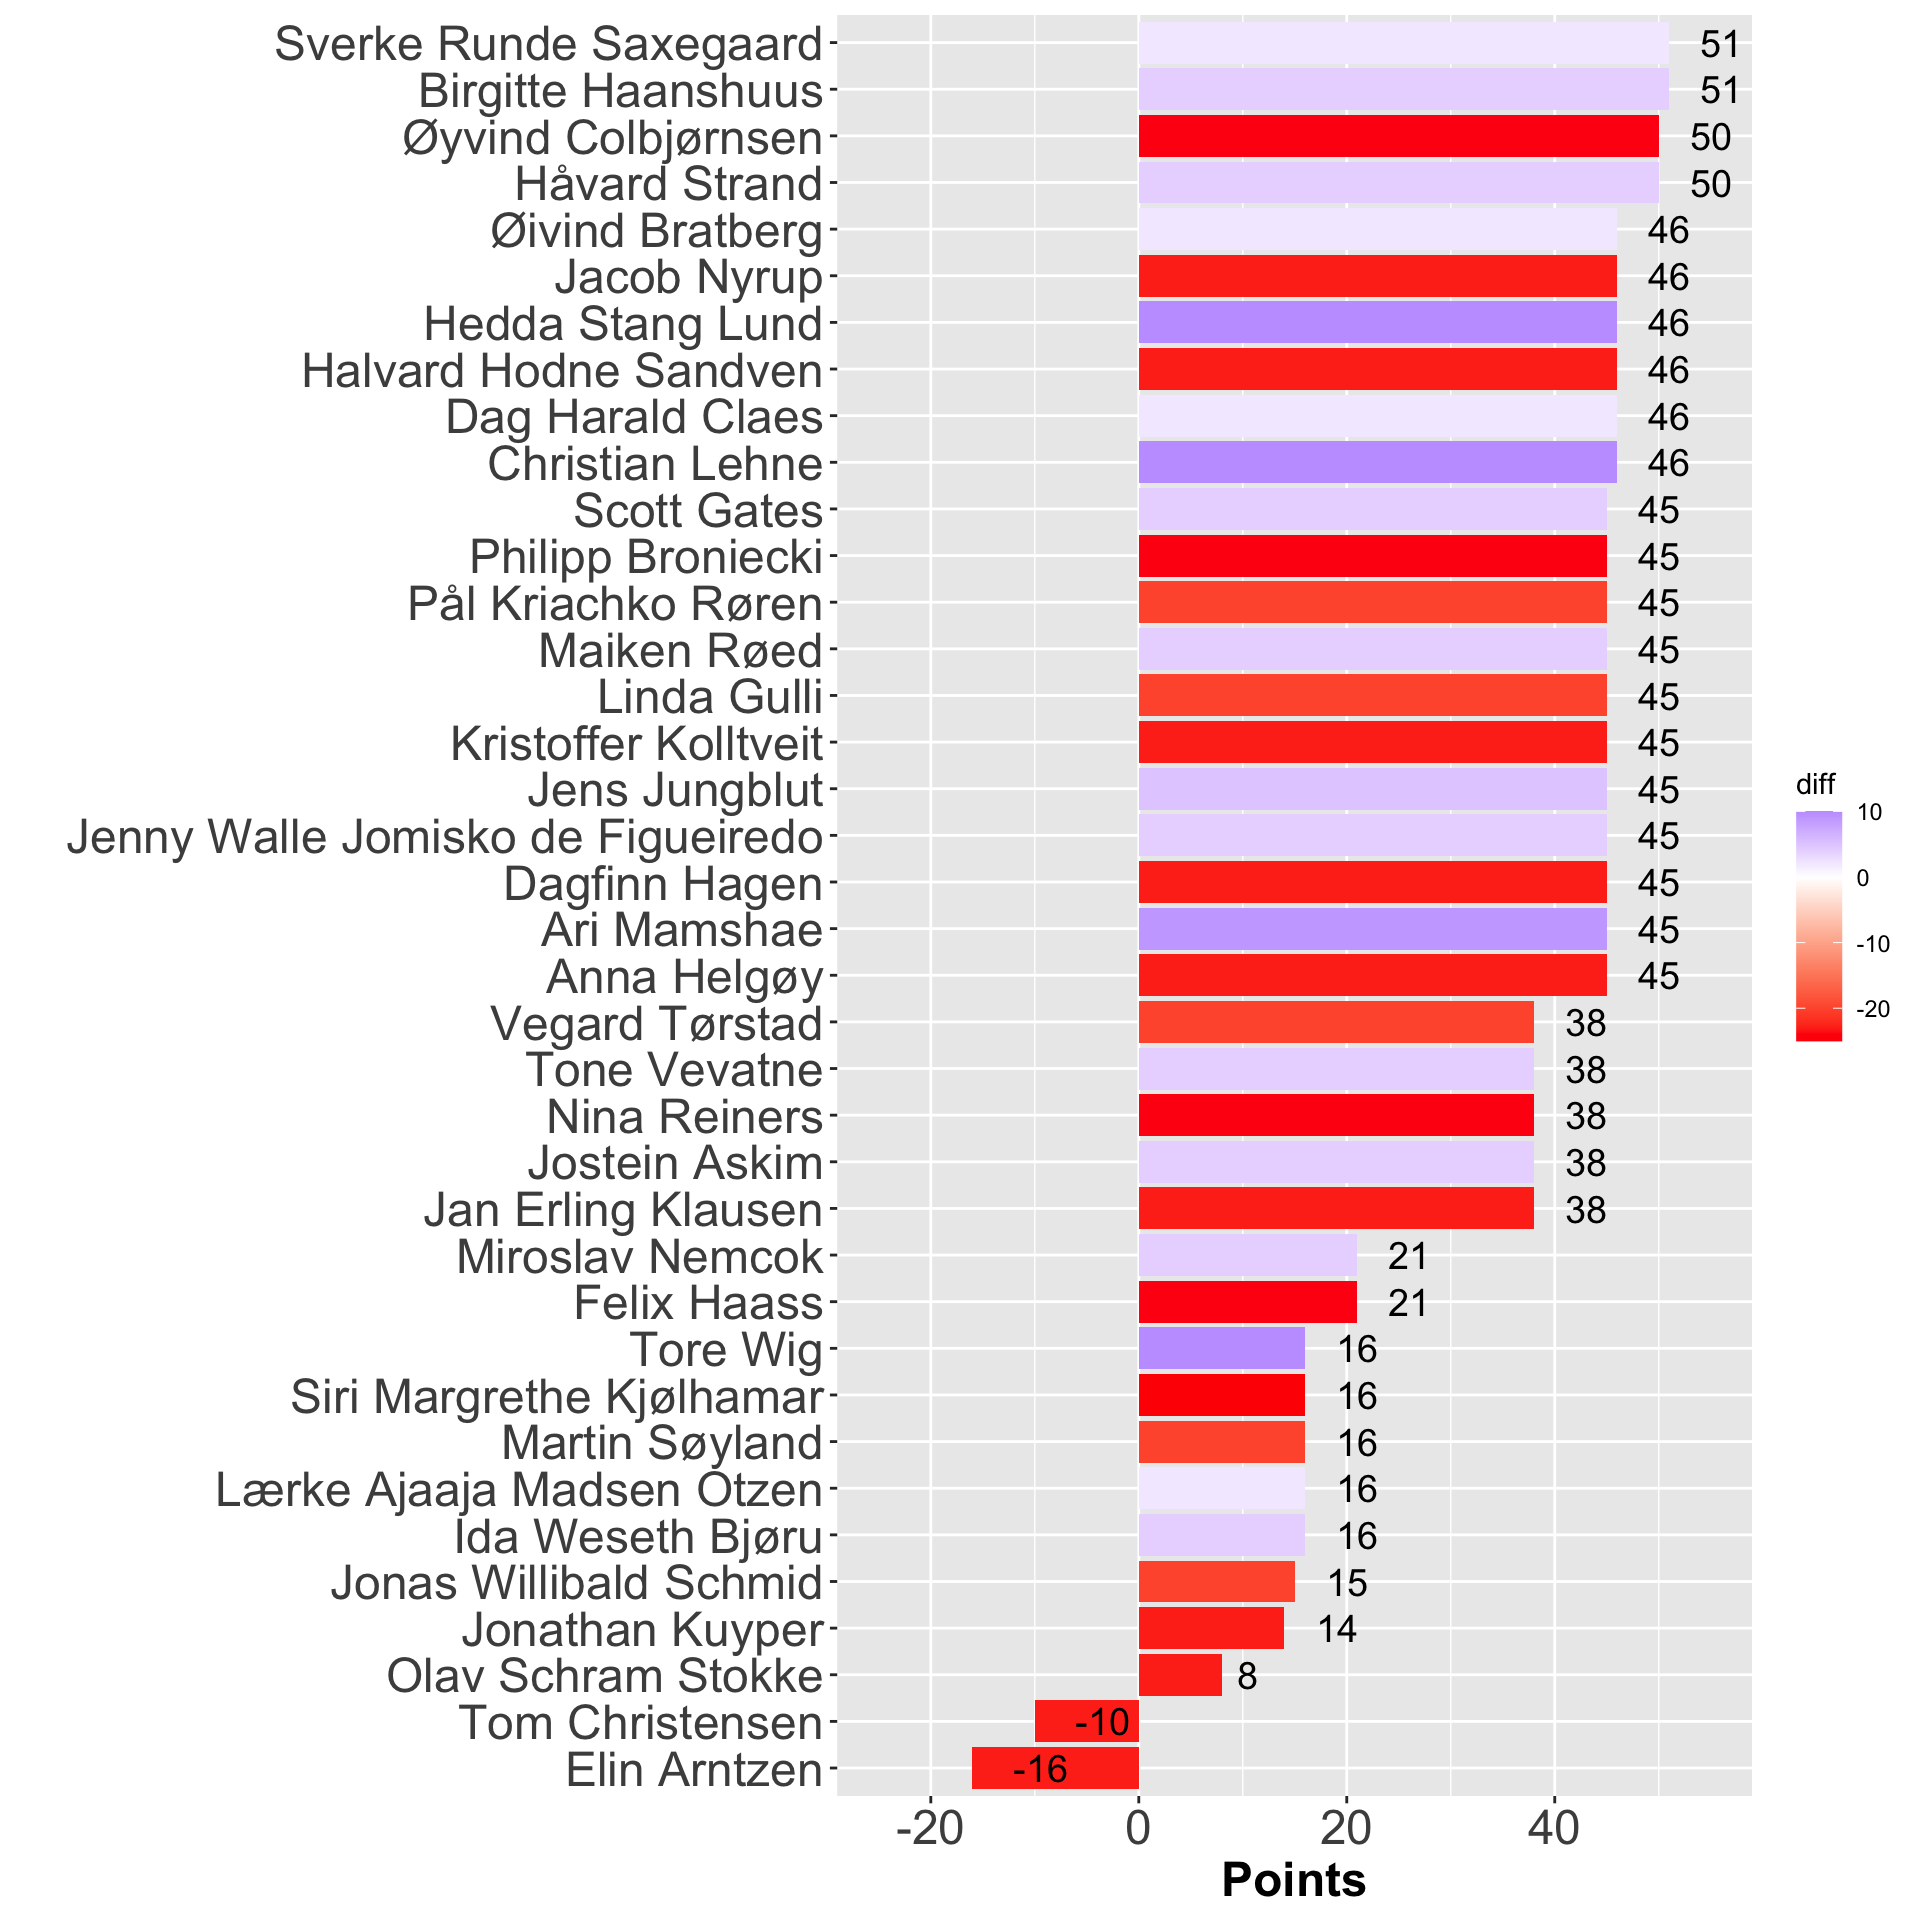
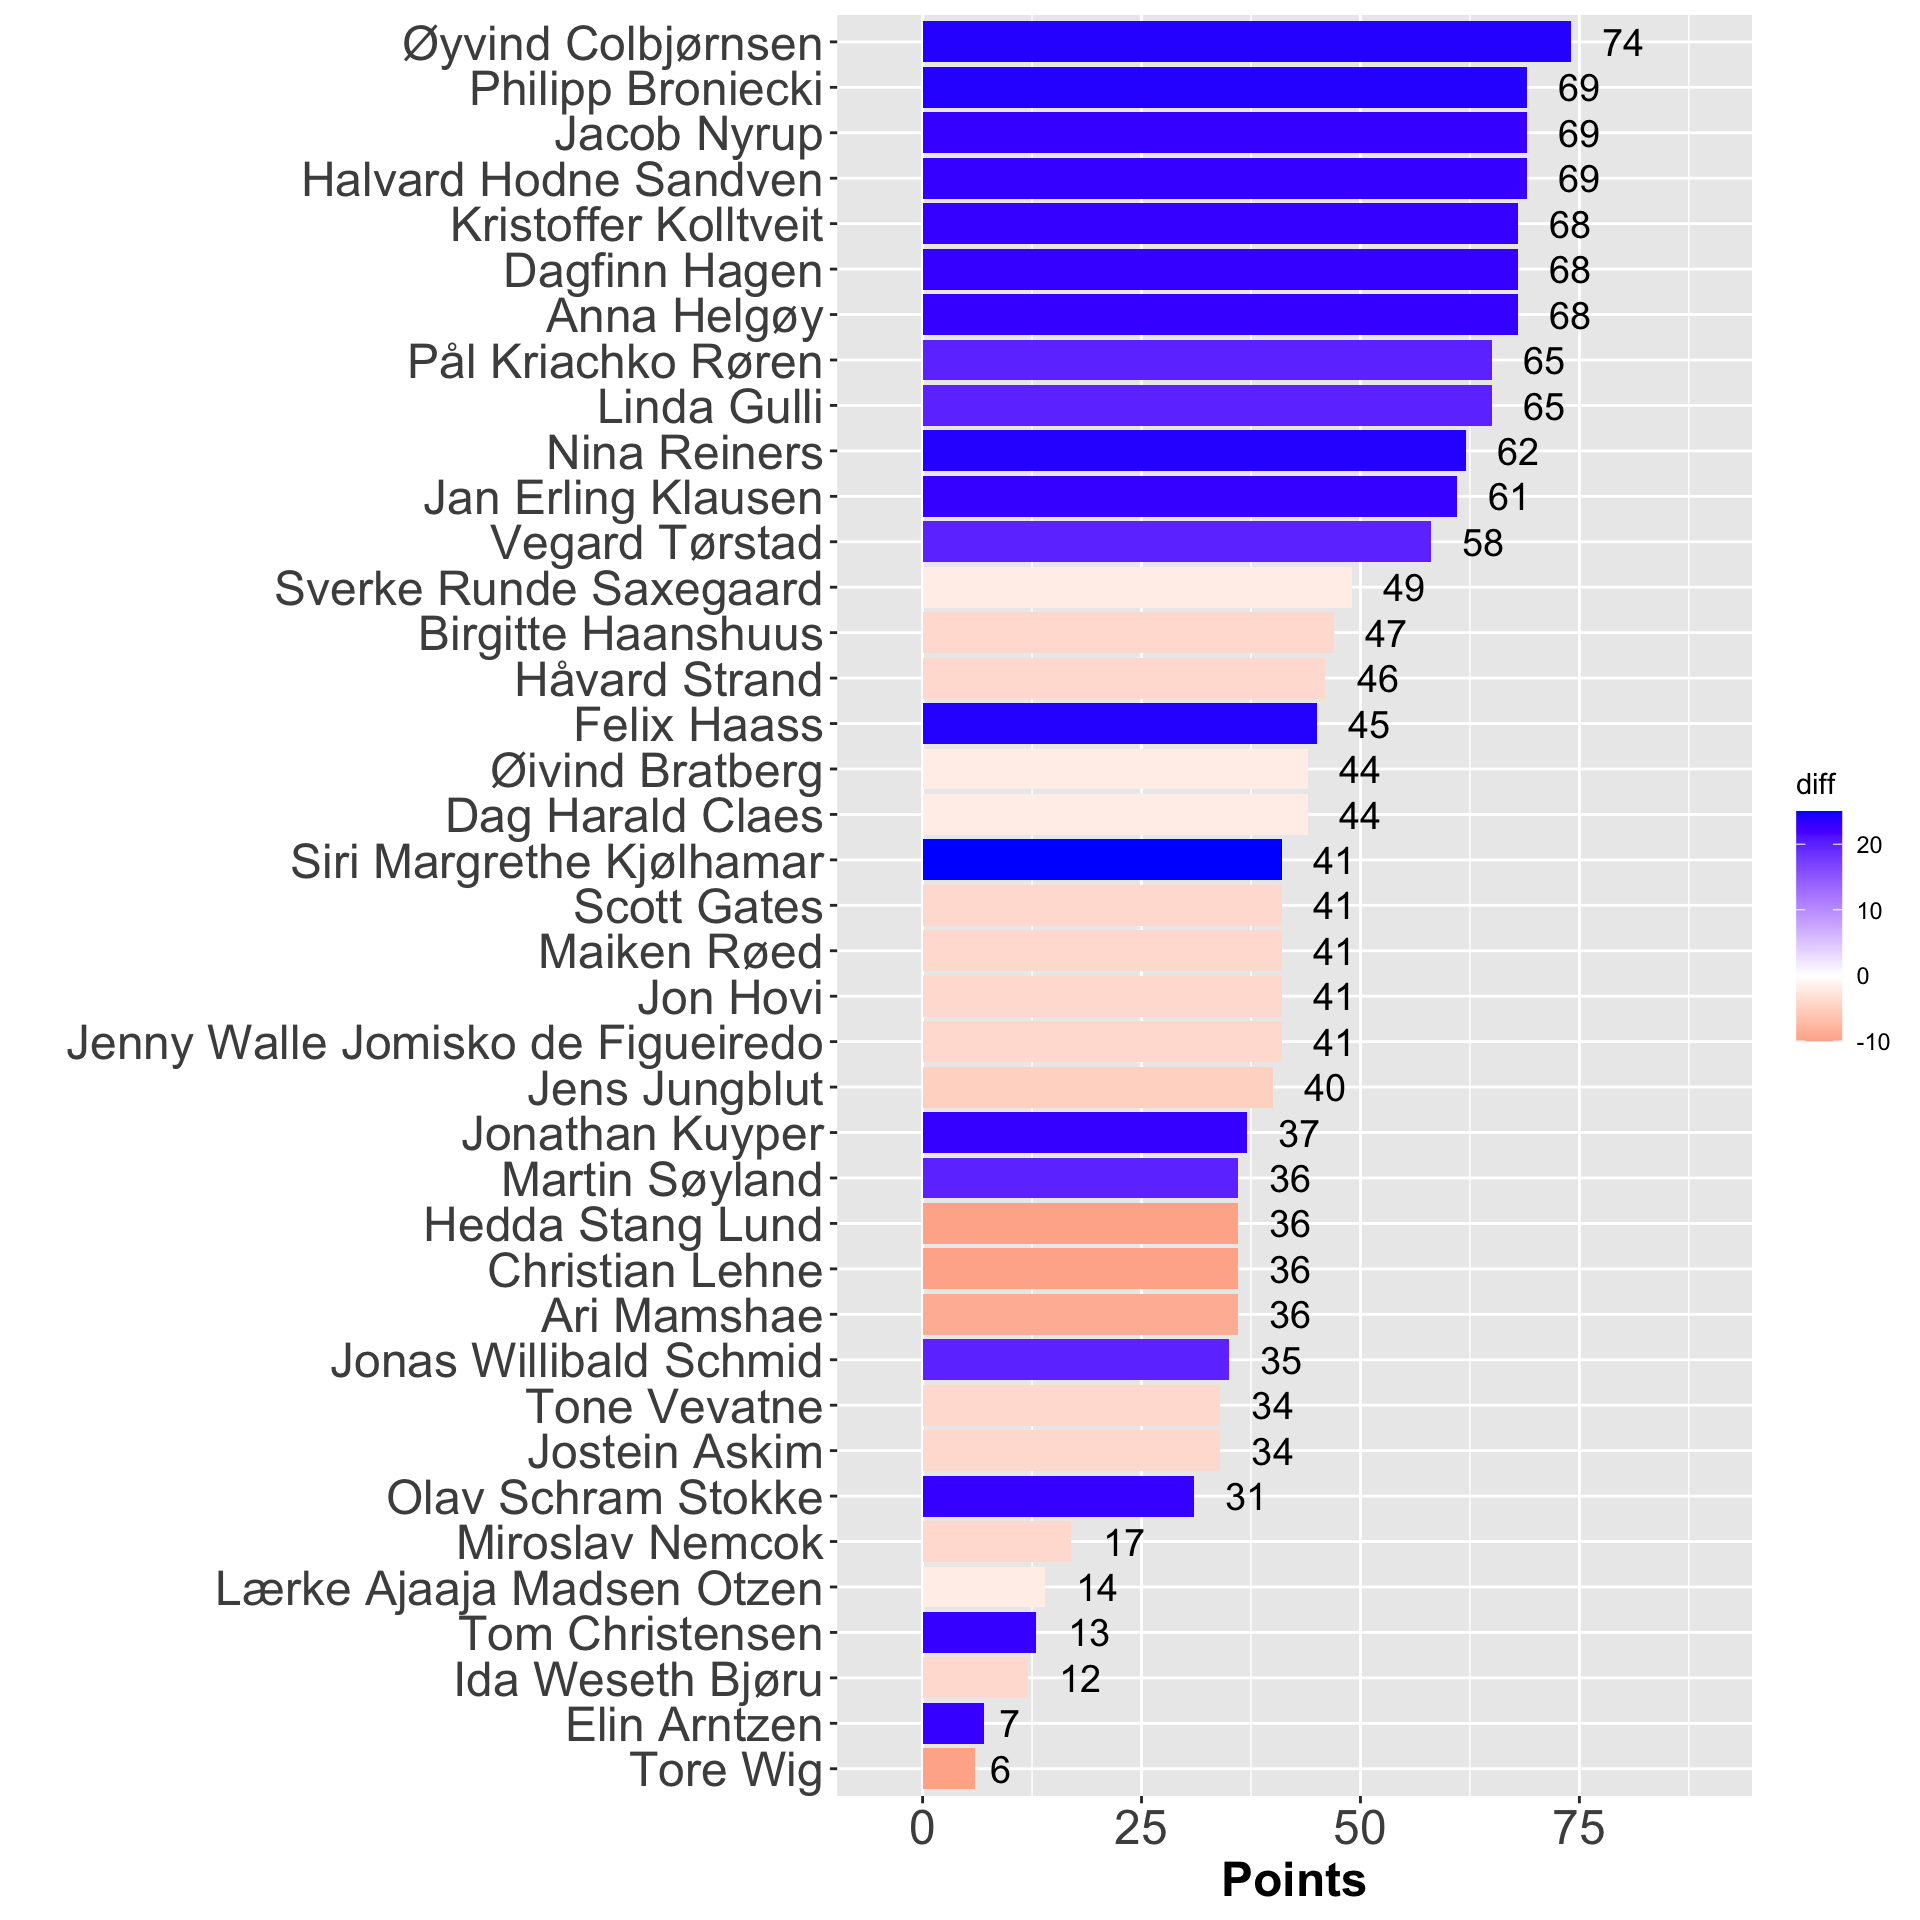
rart

diff --git a/docs/posts/Switzerland_Hungary/index.html b/docs/posts/Switzerland_Hungary/index.html
@@ -7,7 +7,7 @@
 <meta name="viewport" content="width=device-width, initial-scale=1.0, user-scalable=yes">
 
 <meta name="author" content="Håvard Strand">
-<meta name="dcterms.date" content="2024-06-13">
+<meta name="dcterms.date" content="2024-06-15">
 
 <title>The 2024 ISV Euro competition - Hungary vs Switzerland</title>
 <style>
@@ -118,9 +118,9 @@ ul.task-list li input[type="checkbox"] {
 <header id="title-block-header" class="quarto-title-block default page-columns page-full">
   <div class="quarto-title-banner page-columns page-full">
     <div class="quarto-title column-body">
-      <h1 class="title">Hungary vs Switserland</h1>
+      <h1 class="title">Hungary vs Switzerland</h1>
                                 <div class="quarto-categories">
-                <div class="quarto-category">warmup</div>
+                <div class="quarto-category">update</div>
               </div>
                   </div>
   </div>
@@ -138,7 +138,7 @@ ul.task-list li input[type="checkbox"] {
       <div>
       <div class="quarto-title-meta-heading">Published</div>
       <div class="quarto-title-meta-contents">
-        <p class="date">June 13, 2024</p>
+        <p class="date">June 15, 2024</p>
       </div>
     </div>
     
@@ -157,9 +157,10 @@ ul.task-list li input[type="checkbox"] {
 
 
 
-<section id="saturday-15th-june-2024-hungary-vs-switserland" class="level1">
-<h1>Saturday 15th June 2024, Hungary vs Switserland</h1>
-<p>Germany beat Scotland 5-1 as we celebrate summer and the start of the European Championship.</p>
+<section id="saturday-15th-june-2024-hungary-vs-switzerland" class="level1">
+<h1>Saturday 15th June 2024, Hungary vs Switzerland</h1>
+<p>Switzerland won against Hungary. Øyvind is in the lead, with Philipp, Halvqrd and Jacob five points behind. On the other end of the scale, we are all in the positive range.</p>
+<p>A few words on the colors. Dark blue means that many points were won since last game, while deep red means that many points were lost.</p>
 <div class="cell">
 <div class="cell-output-display">
 <div>

diff --git a/docs/index.html b/docs/index.html
@@ -227,7 +227,7 @@ update
 </div>
 </div>
 <div class="listing-description">
-<a href="./posts/Switzerland_Hungary/index.html" class="no-external">Germany beat Scotland 5-1 as we celebrate summer and the start of the European Championship.</a>
+<a href="./posts/Switzerland_Hungary/index.html" class="no-external">Switzerland won against Hungary. Øyvind is in the lead, with Philipp, Halvqrd and Jacob five points behind. On the other end of the scale, we are all in the positive range.</a>
 </div>
 </div>
 <div class="metadata">
